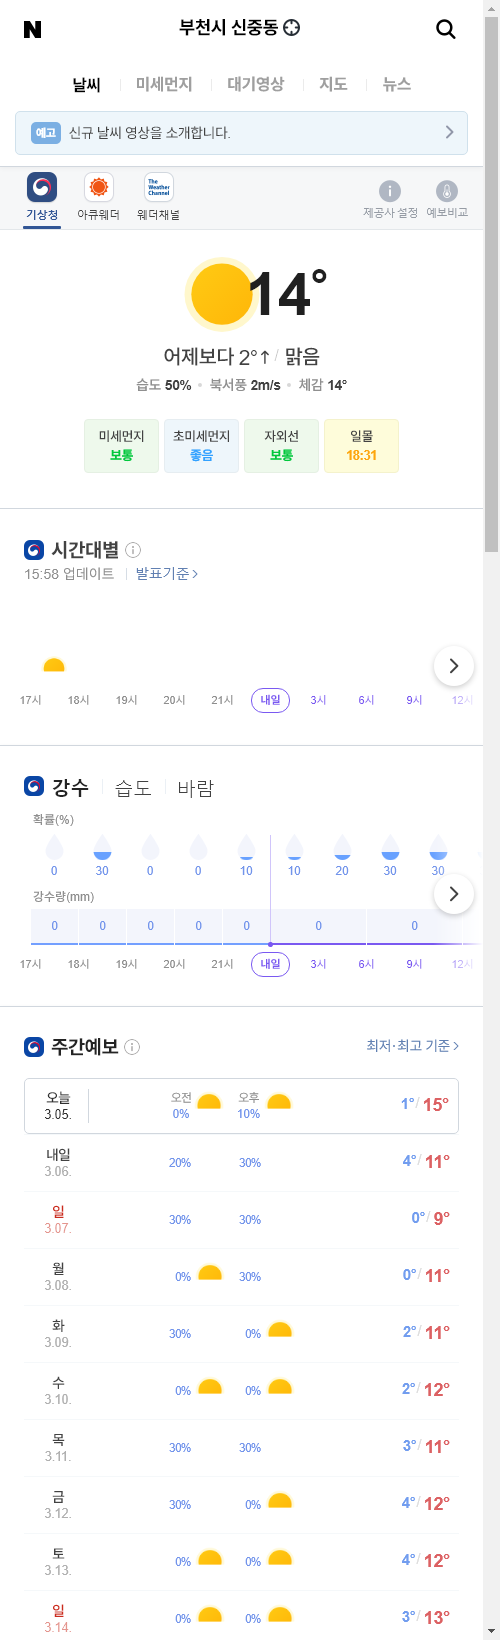
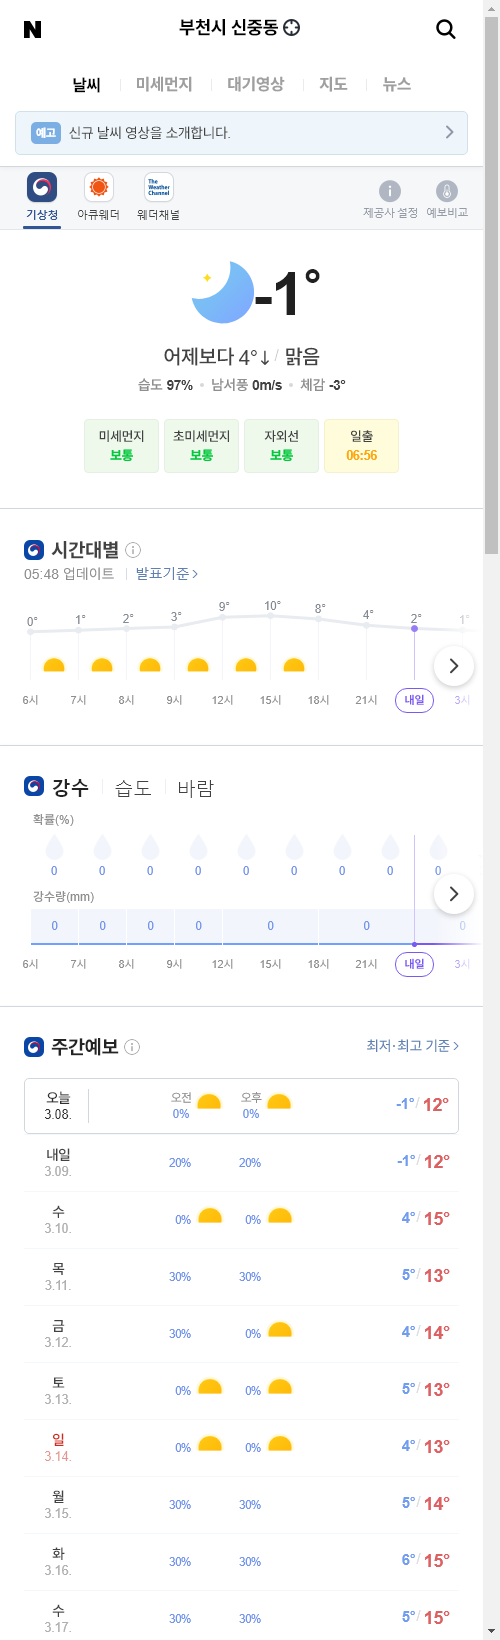
update result

diff --git a/README.md b/README.md
@@ -1,5 +1,5 @@
-##  2021-03-05 16:02:47   금요일 
-##### 날씨   -   어제보다 2° 높아요맑음  
+##  2021-03-08 05:54:44   월요일 
+##### 날씨   -   어제보다 4° 낮아요맑음  
 <center><img src="../img/naver_weather_week.png"></center>
 ----
 ----
@@ -13,19 +13,19 @@
 ##### 세계
 <table border="1" bordercolor="blue" align = "center" >
 <tr align = "right" > <td>Item</td><td>Point</td><td>Diff</td><td>Rate</td><td>Buy</td><td>Sell</td><td>...</td>  </tr>
-<tr align = "right" > <td>DOW</td><td>30,924.14</td><td>-345.95</td><td><font size="3" color="blue" >-1.11%</font></td><td><font size="3" color="black">0</font></td><td><font size="3" color="black">0</font></td><td>0</td>  </tr>
-<tr align = "right" > <td>NASDAQ</td><td>12,723.47</td><td>-274.28</td><td><font size="3" color="blue" >-2.11%</font></td><td><font size="3" color="black">0</font></td><td><font size="3" color="black">0</font></td><td>0</td>  </tr>
-<tr align = "right" > <td>S&P</td><td>3,768.47</td><td>-51.25</td><td><font size="3" color="blue" >-1.34%</font></td><td><font size="3" color="black">0</font></td><td><font size="3" color="black">0</font></td><td>0</td>  </tr>
-<tr align = "right" > <td>SHANHAI</td><td>3,503.26</td><td>-0.23</td><td><font size="3" color="blue" >-0.01%</font></td><td><font size="3" color="black">0</font></td><td><font size="3" color="black">0</font></td><td>0</td>  </tr>
-<tr align = "right" > <td>INDIA</td><td>50,648.1</td><td>-197.98</td><td><font size="3" color="blue" >-0.39%</font></td><td><font size="3" color="black">0</font></td><td><font size="3" color="black">0</font></td><td>0</td>  </tr>
+<tr align = "right" > <td>DOW</td><td>31,496.3</td><td>572.16</td><td><font size="3" color="red" >1.85%</font></td><td><font size="3" color="black">0</font></td><td><font size="3" color="black">0</font></td><td>0</td>  </tr>
+<tr align = "right" > <td>NASDAQ</td><td>12,920.15</td><td>196.68</td><td><font size="3" color="red" >1.55%</font></td><td><font size="3" color="black">0</font></td><td><font size="3" color="black">0</font></td><td>0</td>  </tr>
+<tr align = "right" > <td>S&P</td><td>3,841.94</td><td>73.47</td><td><font size="3" color="red" >1.95%</font></td><td><font size="3" color="black">0</font></td><td><font size="3" color="black">0</font></td><td>0</td>  </tr>
+<tr align = "right" > <td>SHANHAI</td><td>3,501.99</td><td>-1.5</td><td><font size="3" color="blue" >-0.04%</font></td><td><font size="3" color="black">0</font></td><td><font size="3" color="black">0</font></td><td>0</td>  </tr>
+<tr align = "right" > <td>INDIA</td><td>50,405.32</td><td>-440.76</td><td><font size="3" color="blue" >-0.87%</font></td><td><font size="3" color="black">0</font></td><td><font size="3" color="black">0</font></td><td>0</td>  </tr>
 </table>
 ----
 ##### 시장
 <table border="1" bordercolor="blue" align = "center" >
 <tr align = "right" > <td>Item</td><td>Price</td><td>Diff</td><td>Rate</td><td>Buy</td><td>Sell</td><td>...</td>  </tr>
-<tr align = "right" > <td>USD</td><td>1,126.0</td><td>1.5</td><td><font size="3" color="red">0.13%</font></td><td><font size="3" color="black">1,110</font></td><td><font size="3" color="black">0</font></td><td>0</td>  </tr>
-<tr align = "right" > <td>WTI</td><td>63.83</td><td>2.55</td><td><font size="3" color="red">4.16%</font></td><td><font size="3" color="black">29.0</font></td><td><font size="3" color="black">0</font></td><td>0</td>  </tr>
-<tr align = "right" > <td>GOLD</td><td>1,700.0</td><td>-15.1</td><td><font size="3" color="blue">-0.88%</font></td><td><font size="3" color="black">0</font></td><td><font size="3" color="black">0</font></td><td>0</td>  </tr>
+<tr align = "right" > <td>USD</td><td>1,129.0</td><td>4.0</td><td><font size="3" color="red">0.36%</font></td><td><font size="3" color="black">1,110</font></td><td><font size="3" color="black">0</font></td><td>0</td>  </tr>
+<tr align = "right" > <td>WTI</td><td>66.09</td><td>2.26</td><td><font size="3" color="red">3.54%</font></td><td><font size="3" color="black">29.0</font></td><td><font size="3" color="black">0</font></td><td>0</td>  </tr>
+<tr align = "right" > <td>GOLD</td><td>1,698.0</td><td>-2.2</td><td><font size="3" color="blue">-0.12%</font></td><td><font size="3" color="black">0</font></td><td><font size="3" color="black">0</font></td><td>0</td>  </tr>
 </table>
 ----
 ##### 주가
